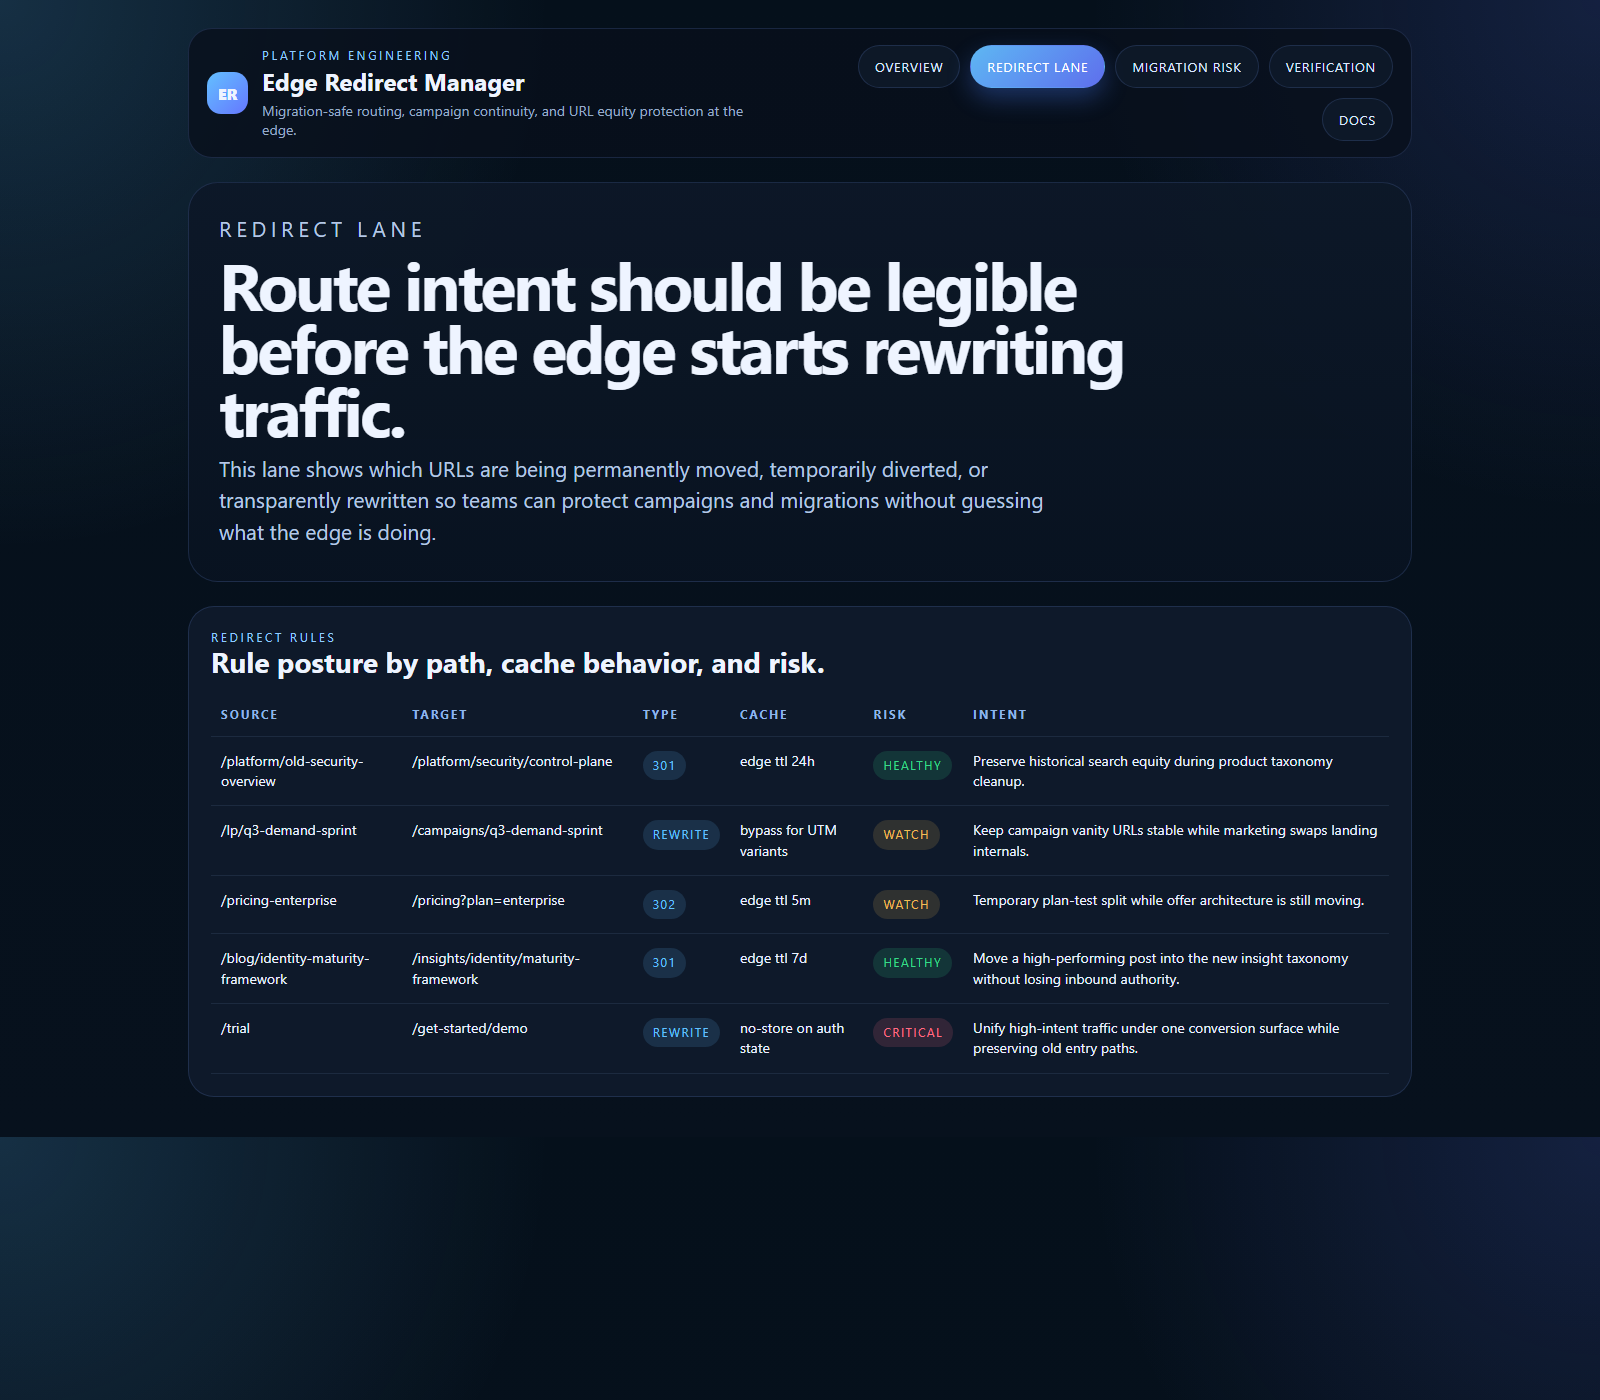
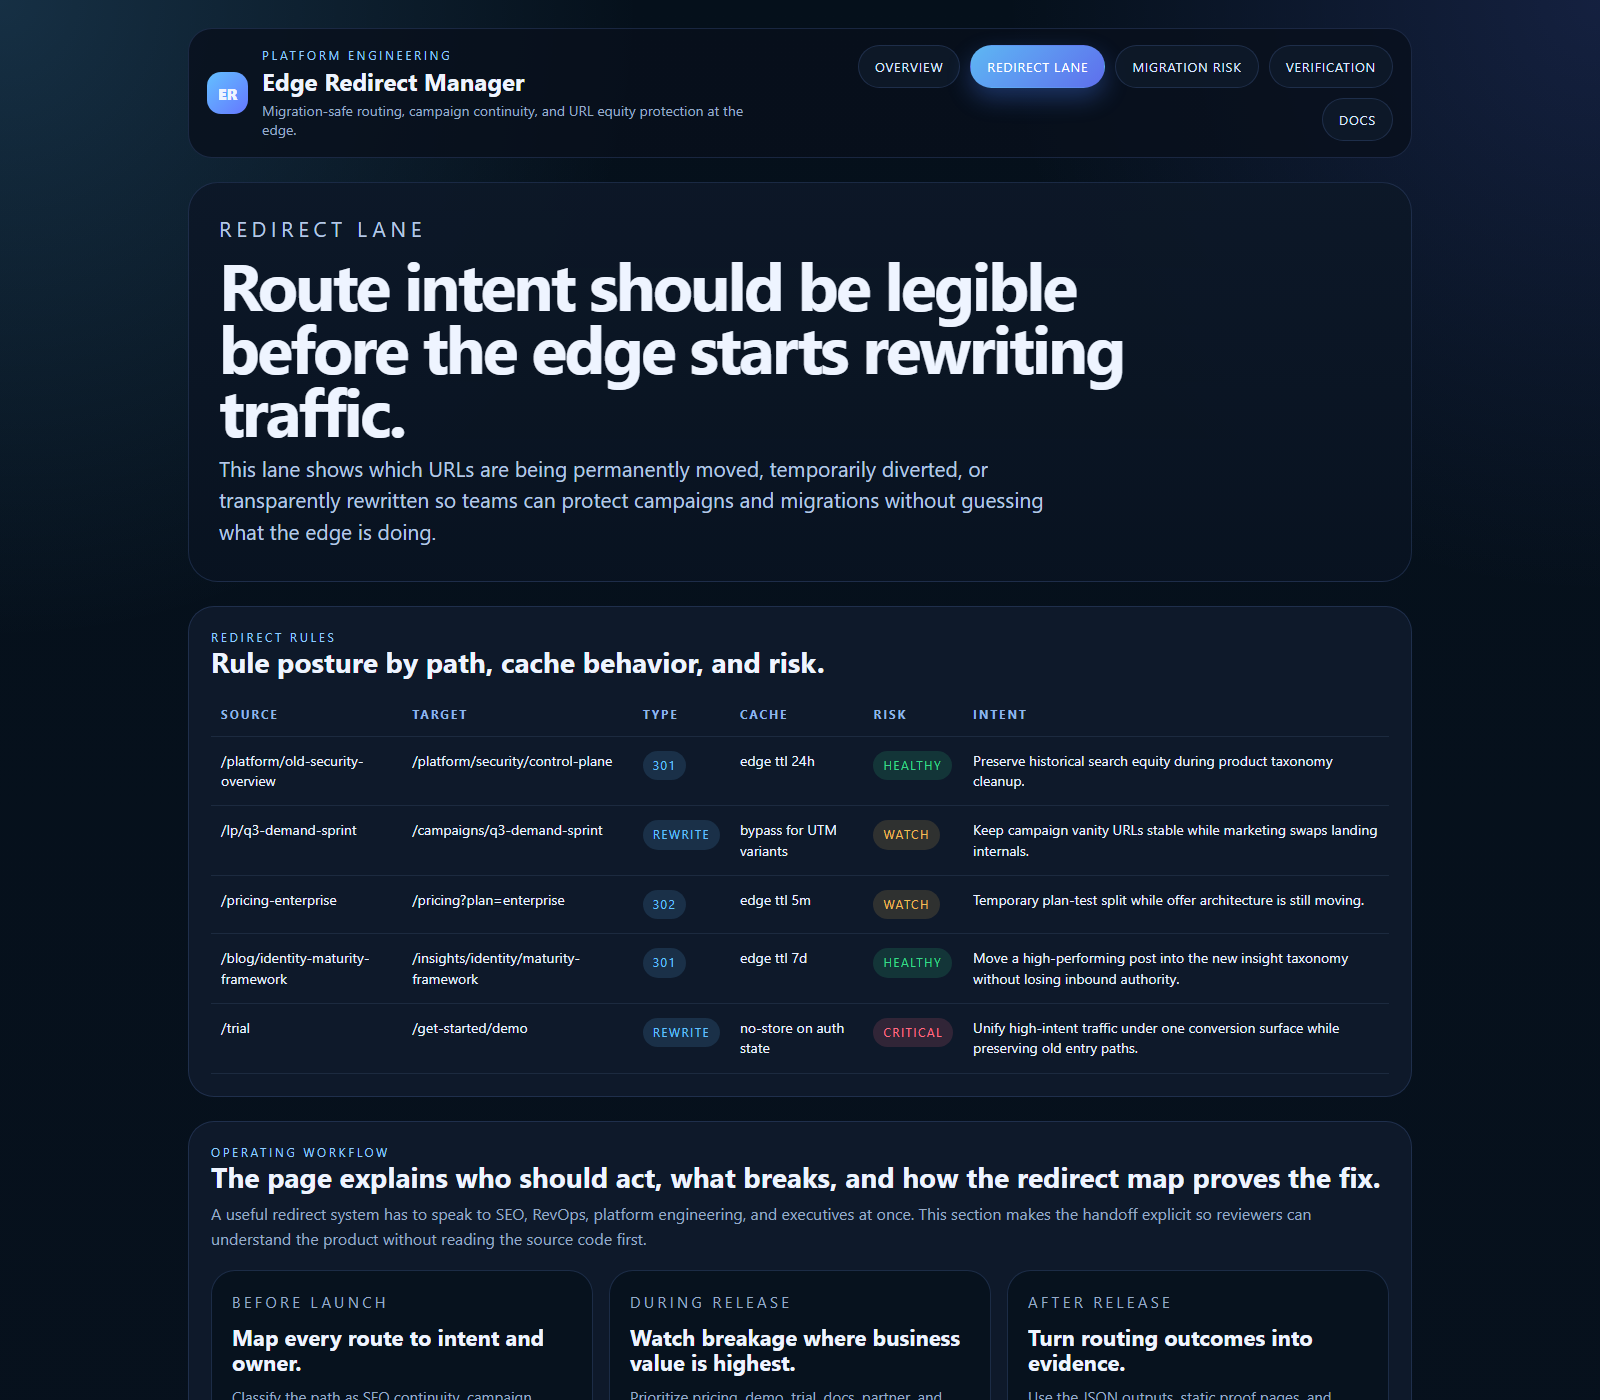
Deepen edge redirect proof surface

diff --git a/src/services/render.ts b/src/services/render.ts
@@ -102,6 +102,13 @@ function layout(title: string, activePath: string, body: string) {
       .depth-card h3 { margin: 10px 0; font-size: 24px; line-height: 1.1; letter-spacing: -0.02em; }
       .depth-card p { margin: 0; color: var(--muted); font-size: 15px; line-height: 1.58; }
       .story { border-left: 4px solid var(--accent); }
+      .workflow-grid { display: grid; grid-template-columns: repeat(3, minmax(0, 1fr)); gap: 16px; }
+      .workflow-card {
+        padding: 20px; border-radius: 24px; border: 1px solid rgba(123, 164, 255, 0.18);
+        background: rgba(6, 15, 27, 0.72);
+      }
+      .workflow-card h3 { margin: 10px 0; font-size: 22px; line-height: 1.16; }
+      .workflow-card p { margin: 0; color: var(--muted); font-size: 15px; line-height: 1.58; }
       .metric-label { color: #8fb6ea; letter-spacing: 0.18em; font-size: 12px; text-transform: uppercase; }
       .metric-value { margin-top: 14px; font-size: 44px; font-weight: 750; line-height: 1; }
       .metric-copy { margin-top: 12px; font-size: 14px; color: var(--muted); line-height: 1.5; }
@@ -126,8 +133,13 @@ function layout(title: string, activePath: string, body: string) {
       ul.clean { margin: 16px 0 0; padding-left: 18px; color: #dbe7fb; }
       ul.clean li { margin-top: 10px; line-height: 1.5; }
       code { background: rgba(14, 25, 41, 0.9); padding: 2px 6px; border-radius: 8px; }
+      .site-footer {
+        margin-top: 30px; padding: 20px 4px 0; display: flex; flex-wrap: wrap; gap: 14px;
+        color: var(--muted); font-size: 13px; border-top: 1px solid rgba(143, 182, 234, 0.12);
+      }
+      .site-footer a { color: #dce8ff; }
       @media (max-width: 1100px) {
-        .metrics, .cols-2 { grid-template-columns: 1fr; }
+        .metrics, .cols-2, .workflow-grid { grid-template-columns: 1fr; }
         nav { justify-content: flex-start; }
         .topbar { flex-direction: column; align-items: flex-start; }
       }
@@ -147,6 +159,13 @@ function layout(title: string, activePath: string, body: string) {
         <nav>${nav}</nav>
       </header>
       ${body}
+      <footer class="site-footer">
+        <a href="http://redirects.kineticgain.com/">redirects.kineticgain.com</a>
+        <a href="https://kineticgain.com/">Kinetic Gain</a>
+        <a href="https://portfolio.kineticgain.com/">Portfolio</a>
+        <a href="https://github.com/mizcausevic-dev/edge-redirect-manager">GitHub</a>
+        <a href="/docs">Docs</a>
+      </footer>
     </main>
   </body>
 </html>`;
@@ -179,6 +198,34 @@ function productDepthSection() {
             <p class="eyebrow">What these repos have in common</p>
             <h3>They turn hidden platform operations into operator-safe decision surfaces.</h3>
             <p>Across Kinetic Gain, each repo makes an invisible failure mode explicit, attaches it to a buyer-readable outcome, and gives both technical and non-technical reviewers a concrete artifact to inspect.</p>
+          </div>
+        </div>
+      </article>
+    </section>`;
+}
+
+function operatingWorkflowSection() {
+  return `
+    <section class="section">
+      <article class="panel">
+        <p class="eyebrow">Operating workflow</p>
+        <h2 class="section-title">The page explains who should act, what breaks, and how the redirect map proves the fix.</h2>
+        <p class="section-copy">A useful redirect system has to speak to SEO, RevOps, platform engineering, and executives at once. This section makes the handoff explicit so reviewers can understand the product without reading the source code first.</p>
+        <div class="workflow-grid" style="margin-top: 18px;">
+          <div class="workflow-card">
+            <p class="eyebrow">Before launch</p>
+            <h3>Map every route to intent and owner.</h3>
+            <p>Classify the path as SEO continuity, campaign continuity, migration cleanup, or application routing. Each rule needs a clear owner and a reason it exists.</p>
+          </div>
+          <div class="workflow-card">
+            <p class="eyebrow">During release</p>
+            <h3>Watch breakage where business value is highest.</h3>
+            <p>Prioritize pricing, demo, trial, docs, partner, and high-authority pages so paid and organic traffic do not disappear into stale URLs.</p>
+          </div>
+          <div class="workflow-card">
+            <p class="eyebrow">After release</p>
+            <h3>Turn routing outcomes into evidence.</h3>
+            <p>Use the JSON outputs, static proof pages, and screenshots to show which risks were contained and which routes still need cleanup before the next launch.</p>
           </div>
         </div>
       </article>
@@ -235,7 +282,7 @@ export function renderOverview() {
       </div>
     </section>`;
 
-  return layout("Edge Redirect Manager", "/", body);
+  return layout("Edge Redirect Manager", "/", `${body}${operatingWorkflowSection()}`);
 }
 
 export function renderRedirectLane() {
@@ -279,7 +326,7 @@ export function renderRedirectLane() {
       </article>
     </section>`;
 
-  return layout("Edge Redirect Manager - Redirect Lane", "/redirect-lane", body);
+  return layout("Edge Redirect Manager - Redirect Lane", "/redirect-lane", `${body}${operatingWorkflowSection()}`);
 }
 
 export function renderMigrationRisk() {
@@ -319,7 +366,7 @@ export function renderMigrationRisk() {
       </article>
     </section>`;
 
-  return layout("Edge Redirect Manager - Migration Risk", "/migration-risk", body);
+  return layout("Edge Redirect Manager - Migration Risk", "/migration-risk", `${body}${operatingWorkflowSection()}`);
 }
 
 export function renderVerification() {
@@ -339,7 +386,7 @@ export function renderVerification() {
       </article>
     </section>`;
 
-  return layout("Edge Redirect Manager - Verification", "/verification", body);
+  return layout("Edge Redirect Manager - Verification", "/verification", `${body}${operatingWorkflowSection()}`);
 }
 
 export function renderDocs() {
@@ -377,5 +424,5 @@ export function renderDocs() {
       </div>
     </section>`;
 
-  return layout("Edge Redirect Manager - Docs", "/docs", body);
+  return layout("Edge Redirect Manager - Docs", "/docs", `${body}${operatingWorkflowSection()}`);
 }

diff --git a/README.md b/README.md
@@ -15,6 +15,25 @@ Redirect work looks technical until it breaks revenue:
 
 `edge-redirect-manager` treats edge routing as a growth and platform concern at the same time. It keeps redirect intent, cache behavior, and migration risk visible in one place.
 
+## What this product does
+
+Edge Redirect Manager turns URL changes into a controlled revenue, SEO, and platform release system. It keeps redirect maps, cache behavior, campaign rewrites, and migration risk visible in one board-readable surface so site changes do not silently break attribution, search equity, paid traffic, or buyer trust.
+
+- **SaaS go-to-market analyst view:** protects demand capture during migrations and campaign changes by showing which routes preserve branded traffic, paid paths, trial flows, partner links, and high-intent landing pages.
+- **SaaS value architect view:** connects technical URL hygiene to measurable business risk: fewer dead ends, cleaner attribution, stronger SEO continuity, and less platform toil when CMS paths and campaign routes change.
+- **Technical buyer view:** models redirect intent, cache posture, migration risk, JSON outputs, smoke checks, prerendered static pages, and edge-worker artifacts so the proof is inspectable.
+- **Executive narrative:** frames redirects as operating infrastructure. A routing mistake can become lost pipeline, distorted campaign reporting, support load, and weaker confidence in the site estate.
+
+## What these repos have in common
+
+This repo follows the broader Kinetic Gain pattern: turn hidden platform operations into operator-safe decision surfaces. Each surface names the risk, maps the owner and control plane, exposes JSON and static proof, and gives commercial leaders and technical reviewers a shared artifact to inspect.
+
+## Operating workflow
+
+- **Before launch:** map each route to intent, business owner, cache posture, and risk class.
+- **During release:** watch breakage where business value is highest: pricing, demo, trial, docs, partner, and high-authority pages.
+- **After release:** turn routing outcomes into evidence using JSON outputs, static proof pages, screenshots, and verification checks.
+
 ## What it includes
 
 - TypeScript control plane for redirect maps, rewrites, cache policy, and migration-safe routing
